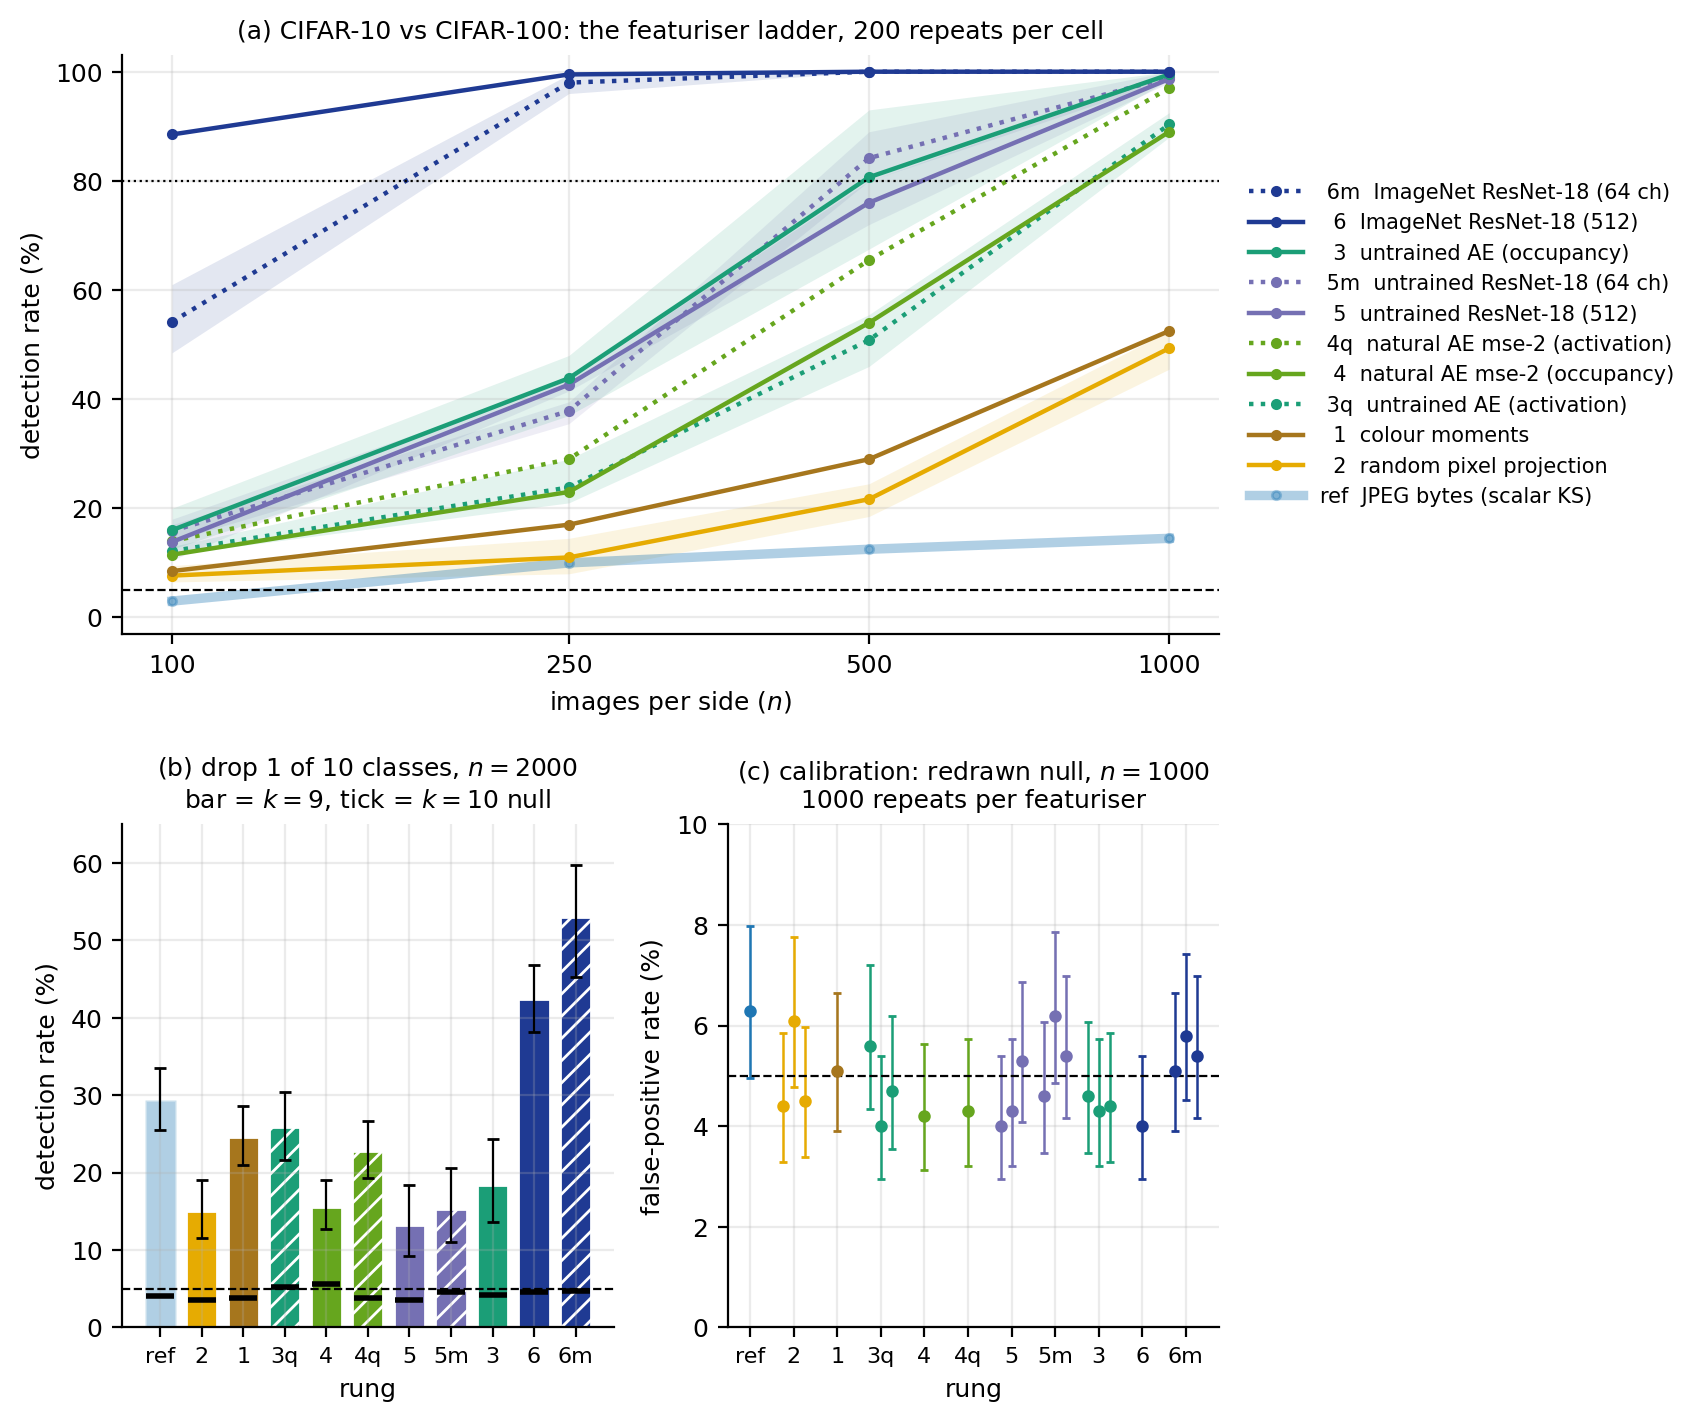
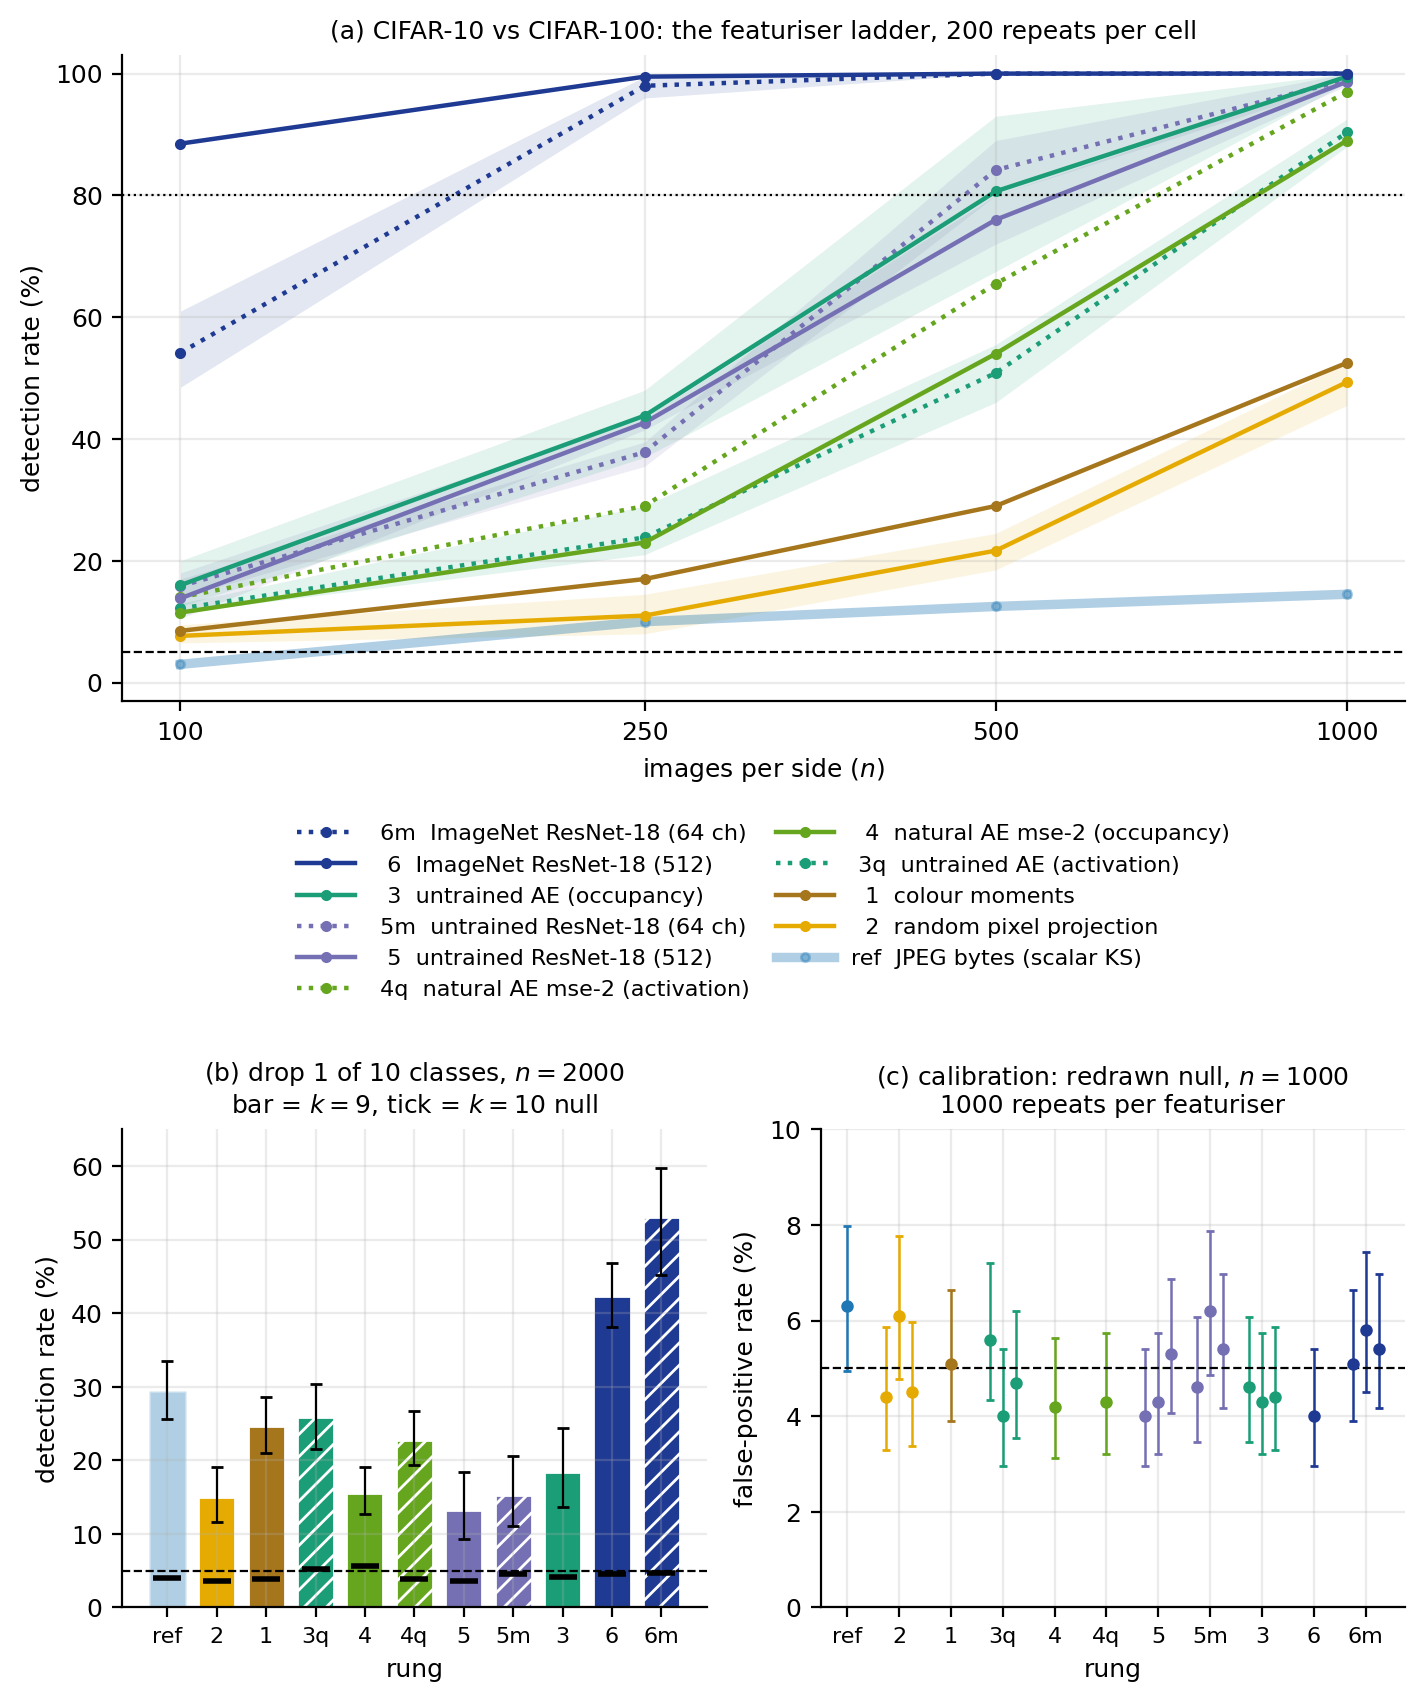
fig9: legend under panel (a), narrower so it survives single-column scaling

diff --git a/experiments/make_figures.py b/experiments/make_figures.py
@@ -538,8 +538,9 @@ def fig9_featuriser_ladder():
         return
     names = d.drop_duplicates('rung').set_index('rung').rung_name
 
-    fig = plt.figure(figsize=(8.6, 7.2))
-    gs = fig.add_gridspec(2, 2, height_ratios=[1.15, 1])
+    # narrow enough that 8pt text survives being scaled to a single column
+    fig = plt.figure(figsize=(7.2, 8.6))
+    gs = fig.add_gridspec(2, 2, height_ratios=[1.35, 1])
     ax = fig.add_subplot(gs[0, :])
 
     # (a) power curves
@@ -570,8 +571,8 @@ def fig9_featuriser_ladder():
     ax.set_title('(a) CIFAR-10 vs CIFAR-100: the featuriser ladder, 200 repeats per cell',
                  fontsize=9)
     handles, labels = ax.get_legend_handles_labels()
-    ax.legend(handles[::-1], labels[::-1], loc='center left', bbox_to_anchor=(1.01, 0.5),
-              fontsize=7.5, handlelength=2.6)
+    ax.legend(handles[::-1], labels[::-1], loc='upper center', bbox_to_anchor=(0.5, -0.16),
+              ncol=2, fontsize=8, handlelength=2.6, columnspacing=1.2)
 
     # (b) class drop
     cd = d[(d.part == 'classdrop')]
